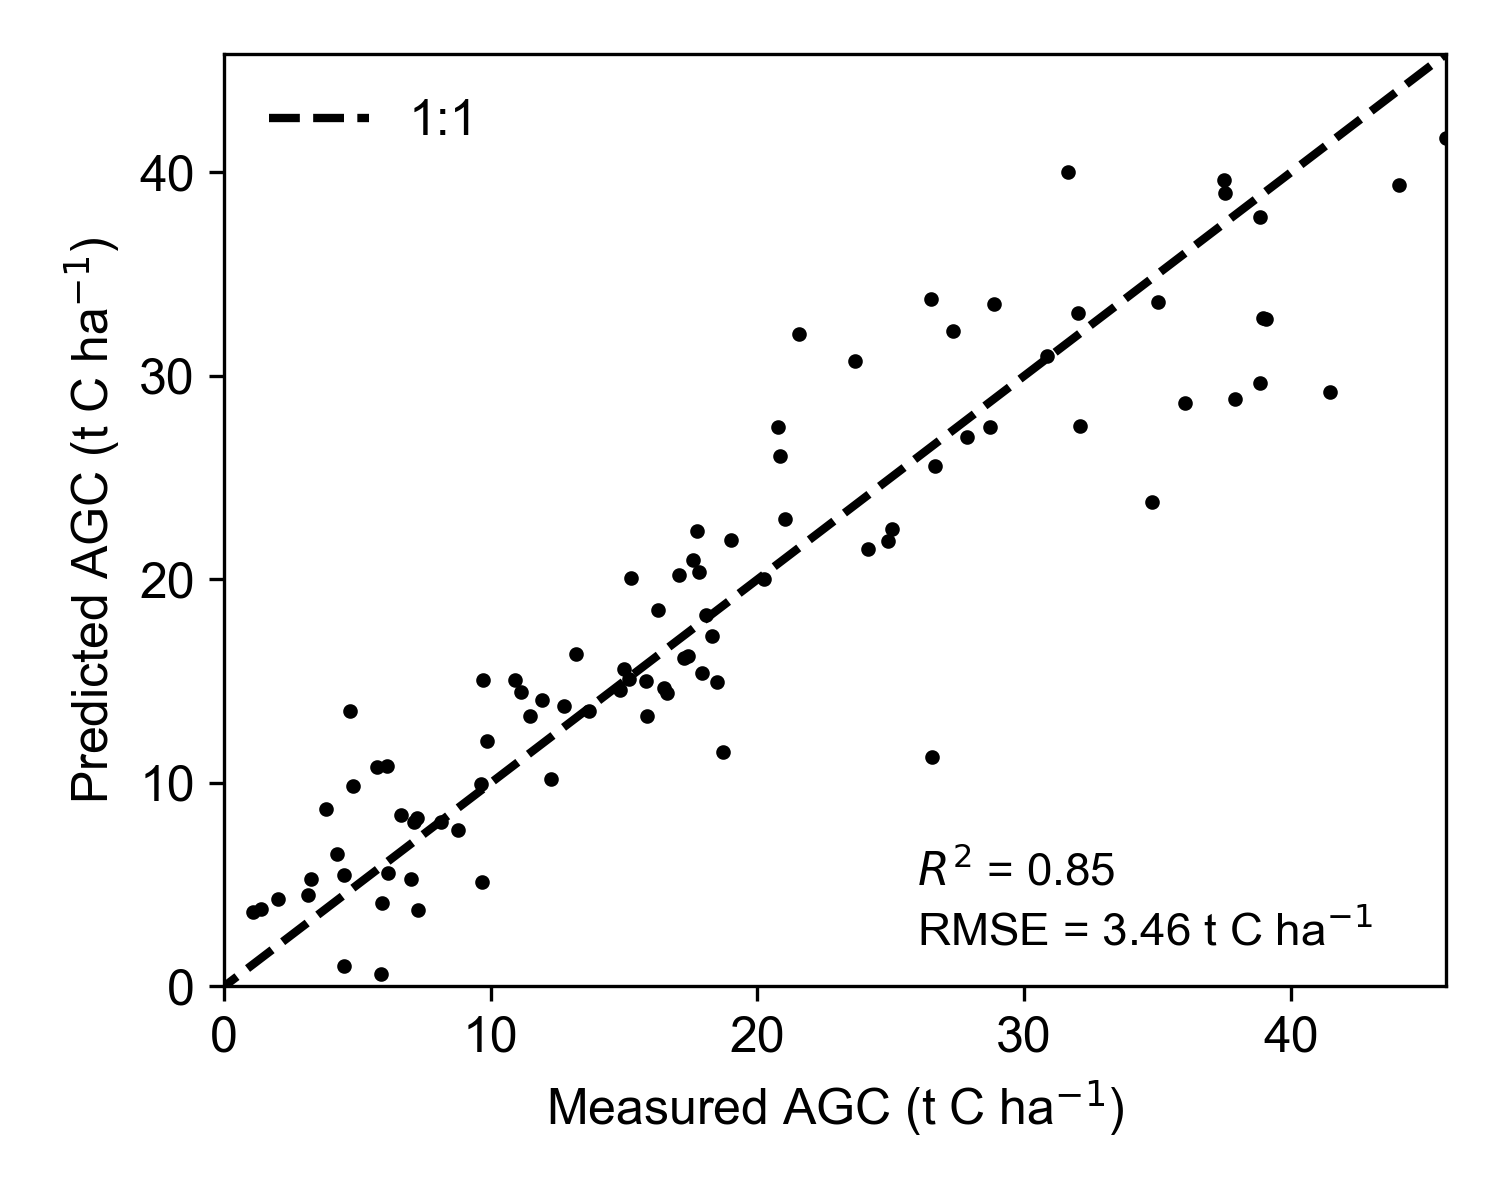
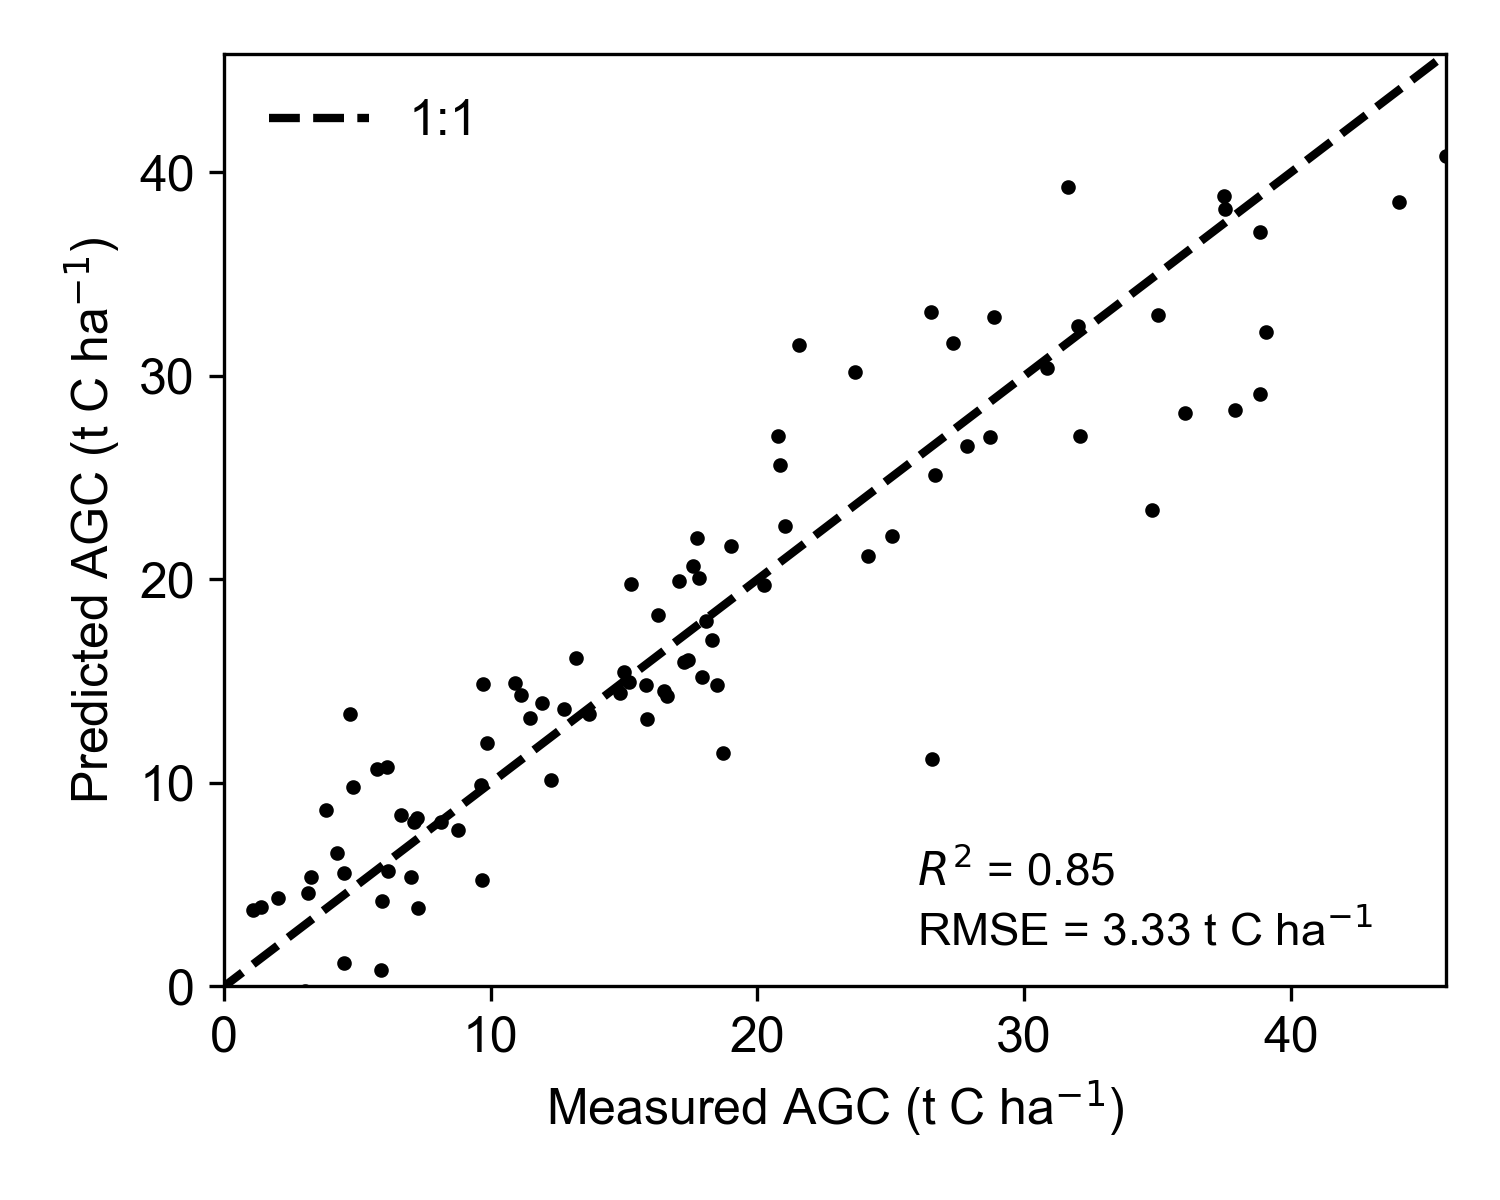
regenerated results w/o the INT* plots

diff --git a/scripts/fit_agc_model.py b/scripts/fit_agc_model.py
@@ -61,6 +61,9 @@ for key in ['AbcHa2', 'AgcHa2']:    # append to im_plot_data_gdf
 im_plot_agc_gdf.loc[im_plot_agc_gdf['data']['Stratum'] == 'Degraded', ('data', 'Stratum')] = 'Severe'
 im_plot_agc_gdf.loc[im_plot_agc_gdf['data']['Stratum'] == 'Intact', ('data', 'Stratum')] = 'Pristine'
 
+# drop the problematic INT* plots with old SOP
+im_plot_agc_gdf = im_plot_agc_gdf.drop(['INT7', 'INT1', 'INT3'])
+
 # make an example scatter plot of feature vs AGC/ABC
 pyplot.rcParams["font.family"] = "arial"
 pyplot.rcParams["font.size"] = "12"
@@ -197,29 +200,78 @@ logger.info(np.array(best_univariate_model.intercept_))
 joblib.dump([best_univariate_model, selected_feats_df.columns[:1].to_numpy(), scores_uv], root_path.joinpath(r'data/outputs/Models/best_univariate_model_py38_cv5v2.joblib'))
 pickle.dump([best_univariate_model, selected_feats_df.columns[:1].to_numpy(), scores_uv], open(root_path.joinpath(r'data/outputs/Models/best_univariate_model_py38_cv5v2.pickle'), 'wb'))
 
-## Analyse outliers
-if True:
-    err_mv = np.abs(predicted_mv - y/1000)
+## Analyse outliers for JARS paper
+if False:
+    from sklearn.neighbors import KernelDensity
+    # add error and max tree height rank to dataframe
+    err_mv = predicted_mv - y/1000
     im_plot_agc_gdf.loc[:, ('data','predicted_mv')] = predicted_mv
-    im_plot_agc_gdf.loc[:, ('data','err_mv')] = err_mv
+    im_plot_agc_gdf.loc[:, ('data','err_mv')] = np.abs(err_mv)
 
+    arg_max_height_sort = np.argsort(-im_plot_agc_gdf[('data', 'MaxHeight')])
+    max_height_rank = np.empty_like(arg_max_height_sort)
+    max_height_rank[arg_max_height_sort] = np.arange(len(arg_max_height_sort))
+    im_plot_agc_gdf.loc[:, ('data', 'max_height_rank')] = max_height_rank
+
+    # predicted vs actual AGC with plot labels and thumbnails
     pyplot.figure()
     vis.scatter_ds(im_plot_agc_gdf, x_col=('data', 'AgcHa'), y_col=('data', 'predicted_mv'),
-                   xfn=lambda x: x/1000, do_regress=False, label_col=('data', 'ID'), thumbnail_col=('data', 'thumbnail'),
-                   x_label='AGC GT', y_label='AGC MV')
+                   xfn=lambda x: x/1000, do_regress=True, label_col=('data', 'ID'), thumbnail_col=('data', 'thumbnail'),
+                   x_label='Measured AGC', y_label='Predicted AGC (mv model)')
+    pyplot.title('Actual vs predicted AGC')
 
+    # investigate correlation between signed error and maximum height in plot
     pyplot.figure()
     vis.scatter_ds(im_plot_agc_gdf, x_col=('data', 'err_mv'), y_col=('data', 'MaxHeight'),
                    xfn=lambda x: x, do_regress=True, label_col=('data', 'ID'), thumbnail_col=('data', 'thumbnail'),
-                   x_label='Err MV', y_label='Max Height')
+                   x_label='Signed mv model error', y_label='Max. height')
+    pyplot.title('Correlation between signed error and max height')
 
-    print(err_mv.sort_values(ascending=True))
-    print((im_plot_agc_gdf[('data', 'MaxHeight')]).sort_values(ascending=False)[:20])
-    print((im_plot_agc_gdf[('data', 'MaxArea')]).sort_values(ascending=False)[:20])
-    print((im_plot_agc_gdf[('data', 'MaxVol')]).sort_values(ascending=False)[:20])
-    print(im_plot_agc_gdf[('data', 'MaxHeight')].loc['INT7'])
-    print(im_plot_agc_gdf[('data', 'MaxArea')].loc['INT7'])
-    print(im_plot_agc_gdf[('data', 'MaxVol')].loc['INT7'])
+    # investigate correlation between abs(error) and maximum height in plot
+    pyplot.figure()
+    vis.scatter_ds(im_plot_agc_gdf, x_col=('data', 'err_mv'), y_col=('data', 'MaxHeight'),
+                   xfn=lambda x: np.abs(x), do_regress=True, label_col=('data', 'ID'), thumbnail_col=('data', 'thumbnail'),
+                   x_label='Abs(mv model error)', y_label='Max. height')
+    pyplot.title('Correlation between abs error and max height')
+
+    # investigate correlation between abs(error) and actual AGC
+    pyplot.figure()
+    vis.scatter_ds(im_plot_agc_gdf, x_col=('data', 'err_mv'), y_col=('data', 'AgcHa'), xfn=lambda x: np.abs(x),
+                   yfn=lambda x: x/1000, do_regress=True, label_col=('data', 'ID'), thumbnail_col=('data', 'thumbnail'),
+                   x_label='Abs(mv model error)', y_label='Measured AGC')
+    pyplot.title('Correlation between abs error and AGC')
+
+    # investigate correlation between abs(error) and actual AGC for Intact stratum
+    im_plot_agc_gdf_intact = im_plot_agc_gdf.loc[im_plot_agc_gdf[('data','Stratum')]=='Pristine']
+    pyplot.figure()
+    vis.scatter_ds(im_plot_agc_gdf_intact, x_col=('data', 'err_mv'), y_col=('data', 'AgcHa'), xfn=lambda x: np.abs(x),
+                   yfn=lambda x: x/1000, do_regress=True, label_col=('data', 'ID'), thumbnail_col=('data', 'thumbnail'),
+                   x_label='Abs(mv model error)', y_label='Actual AGC')
+    pyplot.title('Correlation between abs error and AGC for intact stratum')
+
+    # investigate the distribution of errors
+    kde = KernelDensity(kernel='gaussian', bandwidth=1.5).fit(err_mv.to_numpy().reshape(-1,1))
+    err_plot = np.linspace(-25, 25, 1000)[:, np.newaxis]
+    err_mv_kd = kde.score_samples(err_plot)
+    pyplot.figure()
+    pyplot.plot(err_plot, np.exp(err_mv_kd))
+    pyplot.plot(err_mv, np.zeros_like(err_mv), 'kx')
+    pyplot.title('Signed error distribution')
+
+    # error stats per stratum
+    for stratum, stratum_df in im_plot_agc_gdf.groupby(by=('data', 'Stratum')):
+        mean_err = np.abs(stratum_df.loc[:, ('data', 'err_mv')]).mean()
+        std_err = np.abs(stratum_df.loc[:, ('data', 'err_mv')]).std()/np.sqrt(len(stratum_df))
+        print(f'{stratum} mean(se) error: {mean_err:.4f}({std_err:.4f})')
+
+
+    # which plots were the worst underperformers, and is there a connection with max tree height?
+    print('First 10 lowest underestimated plots:')
+    err_mv_sort = err_mv.sort_values(ascending=False)[:10]
+    print(err_mv_sort)
+
+    print('MaxHeights and corresp ranks of 10 lowest underestimated plots:')
+    print(im_plot_agc_gdf.loc[err_mv_sort.index, ('data', ['MaxHeight','max_height_rank'])])
 
 
 logger.info('Done\n')

diff --git a/map_thicket_agc/visualisation.py b/map_thicket_agc/visualisation.py
@@ -123,7 +123,7 @@ def scatter_ds(data, x_col=None, y_col=None, class_col=None, label_col=None, thu
         scores, predicted = feature_selection.score_model(x.to_numpy().reshape(-1,1), y.to_numpy().reshape(-1,1), model=linear_model.LinearRegression(),
                                                         find_predicted=True, cv=len(x), print_scores=False, score_fn=None)
 
-        pyplot.text((xlim[0] + xd * 0.7), (ylim[0] + yd * 0.05), '$R^2$ = {0:.2f}'.format(np.round(scores['R2_stacked'], 2)),
+        pyplot.text((xlim[0] + xd * 0.7), (ylim[0] + yd * 0.05), '$R^2$ = {0:.2f}'.format(r ** 2),
                    fontdict={'size': 12})
         yr = np.array(xlim)*slope + intercept
         pyplot.plot(xlim, yr, 'k--', lw=2, zorder=-1)
